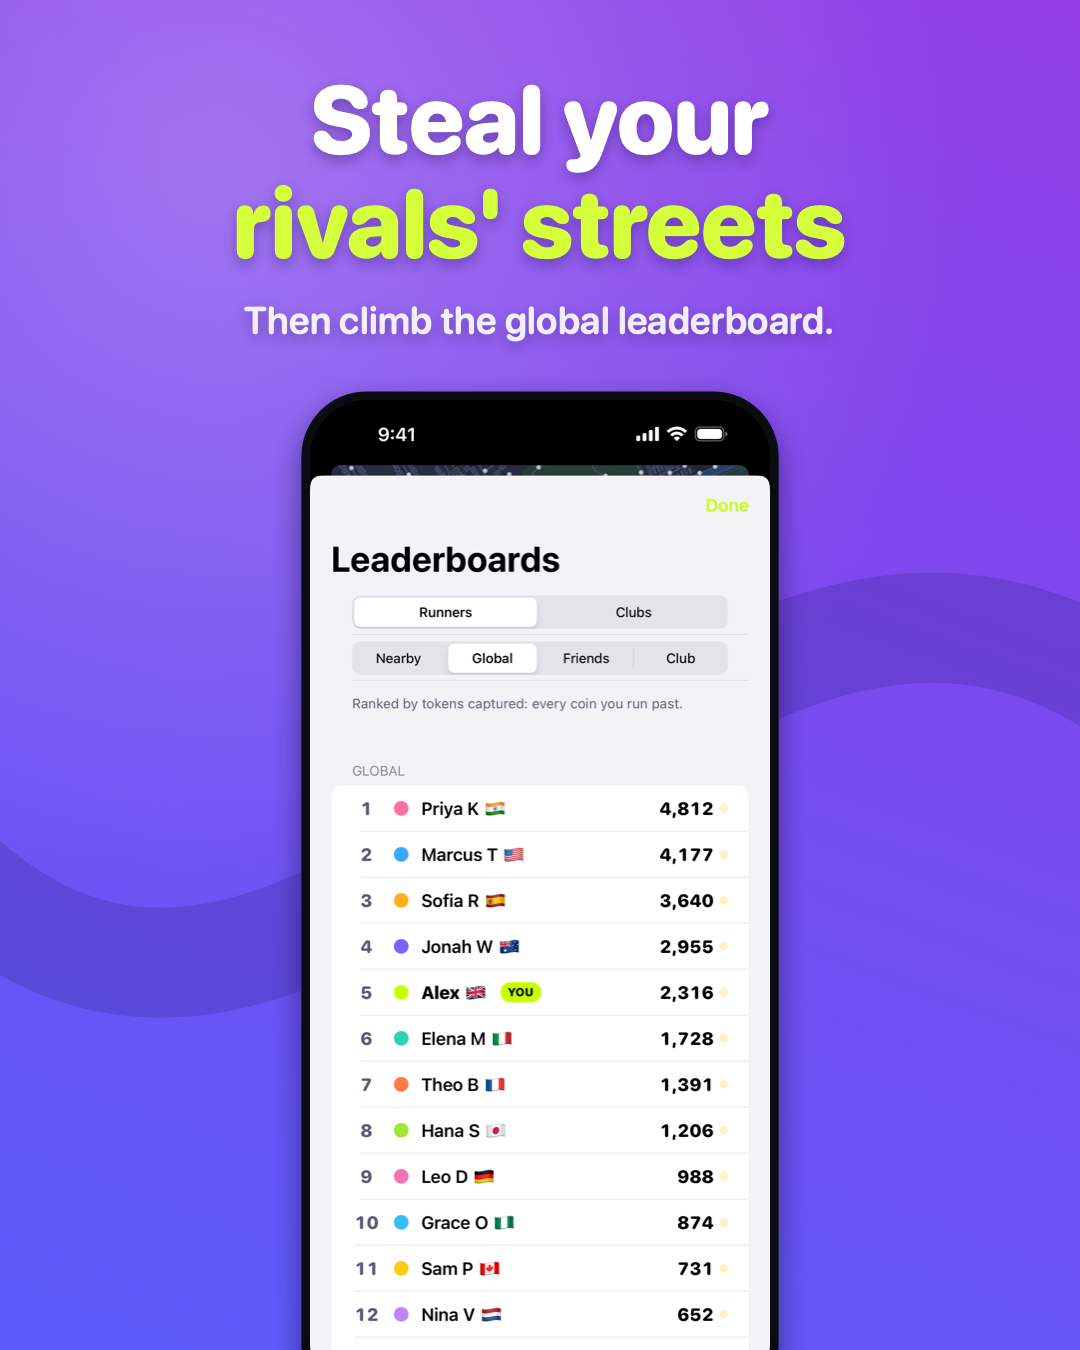
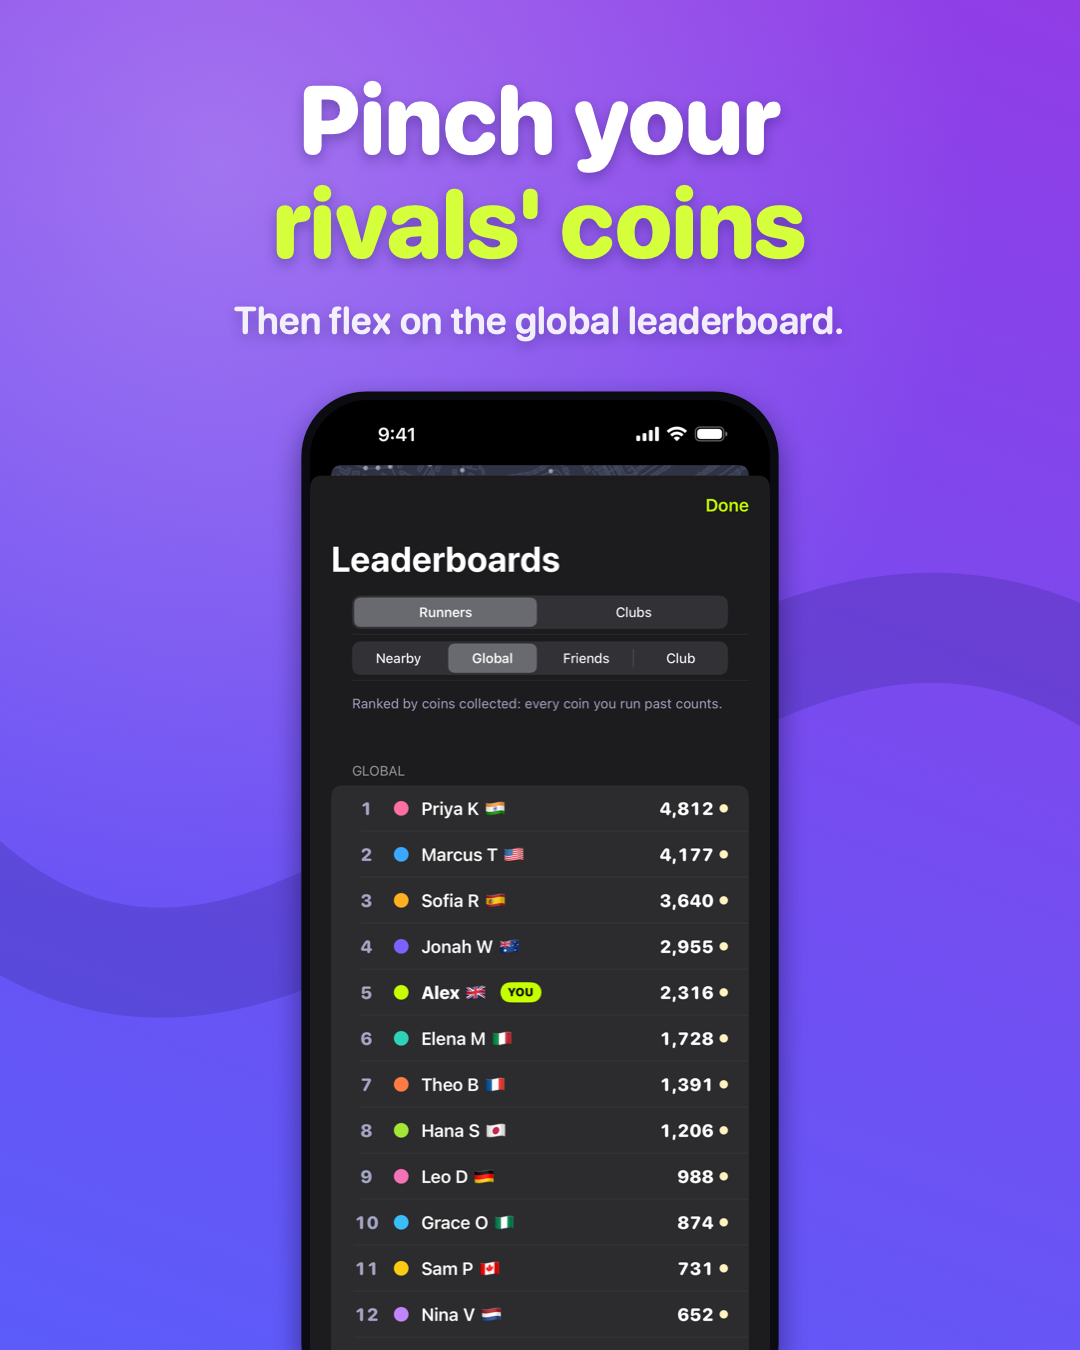
Marketing: posts and reels retaken with coins, livelier copy and captions
Claude-Session: https://claude.ai/code/session_01FMtq8DZr1tgLvzrY33xyjw

diff --git a/tools/make-posts.swift b/tools/make-posts.swift
@@ -119,20 +119,20 @@ try? FileManager.default.createDirectory(atPath: out, withIntermediateDirectorie
 // POST 1 — carousel (swipe through four slides).
 canvas("post1-carousel-1") {
     background(0)
-    headline("Your town is now", "a game board", y: 70)
+    headline("Your run just", "became a game", y: 70)
     text("Swipe →", 34, .bold, rgb(0xFFFFFF, 0.85), in: NSRect(x: 0, y: 300, width: W, height: 50))
     phone(shot("01-map"), center: NSPoint(x: W / 2, y: 900), height: 1000)
 }
 canvas("post1-carousel-2") {
     background(1)
-    headline("Every street is", "covered in coins", y: 70)
-    text("Run past them and they're yours.", 38, .semibold, rgb(0xFFFFFF, 0.9), in: NSRect(x: 0, y: 300, width: W, height: 60))
+    headline("The map is", "covered in coins", y: 70)
+    text("Run past them. Ka-ching. They're yours.", 38, .semibold, rgb(0xFFFFFF, 0.9), in: NSRect(x: 0, y: 300, width: W, height: 60))
     phone(shot("02-run"), center: NSPoint(x: W / 2, y: 900), height: 1000)
 }
 canvas("post1-carousel-3") {
     background(2)
-    headline("Steal your", "rivals' streets", y: 70)
-    text("Then climb the global leaderboard.", 38, .semibold, rgb(0xFFFFFF, 0.9), in: NSRect(x: 0, y: 300, width: W, height: 60))
+    headline("Pinch your", "rivals' coins", y: 70)
+    text("Then flex on the global leaderboard.", 38, .semibold, rgb(0xFFFFFF, 0.9), in: NSRect(x: 0, y: 300, width: W, height: 60))
     phone(shot("05-leaderboard"), center: NSPoint(x: W / 2, y: 900), height: 1000)
 }
 canvas("post1-carousel-4") {
@@ -140,7 +140,7 @@ canvas("post1-carousel-4") {
     appIcon(at: NSRect(x: W / 2 - 150, y: 230, width: 300, height: 300))
     text("Chomp", 120, .heavy, .white, in: NSRect(x: 0, y: 580, width: W, height: 150))
     text("The running game.", 52, .bold, lime, in: NSRect(x: 0, y: 730, width: W, height: 70))
-    text("Works anywhere, on any street.\nNo gym, no kit, just go.", 38, .semibold, rgb(0xFFFFFF, 0.88), in: NSRect(x: 100, y: 830, width: W - 200, height: 120))
+    text("Any road, any town, any pace.\nLace up and go get 'em.", 38, .semibold, rgb(0xFFFFFF, 0.88), in: NSRect(x: 100, y: 830, width: W - 200, height: 120))
     cta(y: 1040)
 }
 

diff --git a/tools/make-reels.swift b/tools/make-reels.swift
@@ -186,8 +186,8 @@ makeReel(name: "reel1-run-is-a-game", clips: [
 ], captions: [
     Caption(top: "POV: your run", bottom: "just became a game", from: 0.1, to: 3.5),
     Caption(top: "The map is", bottom: "covered in coins", from: 3.5, to: 7.5),
-    Caption(top: "Run past them.", bottom: "They're yours.", from: 7.5, to: 11.5),
-    Caption(top: "Every run", bottom: "counts", from: 11.5, to: 99),
+    Caption(top: "Run past them.", bottom: "Ka-ching.", from: 7.5, to: 11.5),
+    Caption(top: "Every run", bottom: "pays out", from: 11.5, to: 99),
 ])
 
 // REEL 2 — "Steal coins, climb the world"
@@ -197,6 +197,6 @@ makeReel(name: "reel2-steal-and-compete", clips: [
     Clip(start: at("leaderboard", 0.4), length: 4.4, speed: 1),
 ], captions: [
     Caption(top: "Your neighbourhood", bottom: "is up for grabs", from: 0.1, to: 3),
-    Caption(top: "Steal your", bottom: "rivals' coins", from: 3, to: 8.5),
-    Caption(top: "Climb the", bottom: "global leaderboard", from: 8.5, to: 99),
+    Caption(top: "Grab them before", bottom: "your rivals do", from: 3, to: 8.5),
+    Caption(top: "Then flex on", bottom: "the leaderboard", from: 8.5, to: 99),
 ])

diff --git a/marketing/CAPTIONS.md b/marketing/CAPTIONS.md
@@ -4,39 +4,40 @@ Put the App Store link in your bio (or a link sticker on Stories) before posting
 everything below says "link in bio".
 
 ## Post 1: carousel (post1-carousel-1 → 4)
-Your town is now a game board 🗺
+Your run just became a game 🎮🪙
 
-Every street is covered in coins. Run past them and they're yours. Your rivals can steal them back, so you'll be lacing up again tomorrow 😤
+The map around you is covered in coins. Run past them: ka-ching, they're yours. Your rivals can pinch them back, so tomorrow's run just got personal 😤
 
-🏃 Works on any street, anywhere
-🪙 Grab coins, take territory
-🌍 Climb the global leaderboard
+🏃 Any road, any town, any pace
+🪙 Grab coins on every run
+🦹 Pinch your rivals' coins
+🏆 Flex on the global leaderboard
 👟 Free on the App Store, link in bio
 
 #running #runningmotivation #runner #5k #parkrun #couchto5k #runninggame #fitnessapp #runhappy #ukrunchat #getoutside #fitnessmotivation
 
 ## Post 2: single image (post2-make-running-fun)
-Bored of the same old loop? Turn it into a game 🎮
+Same old loop? Not any more 😎
 
-Chomp puts coins on every street around you. Run them to make them yours, steal them from rivals and see how you stack up against the world.
+Chomp drops coins all over the map around you. Run past them to grab them, pinch your rivals' and see how you stack up against the world. Suddenly "just one more road" is a thing you say.
 
 Free on the App Store, link in bio 👆
 
 #running #runningapp #runnersofinstagram #runningmotivation #fitnessgoals #parkrun #ukrunning #runningcommunity #gamification
 
 ## Reel 1: "POV: your run just became a game" (reel1-run-is-a-game.mp4)
-POV: you finally have a reason to run that extra street 😅🪙
+POV: you've found a reason to run that extra road 😅🪙
 
-Every street near you is covered in coins. Run past them, they're yours. Free on the App Store, link in bio.
+The map is covered in coins. Run past them. Ka-ching. Every run pays out. Free on the App Store, link in bio.
 
 #running #runningtok #runningmotivation #5k #couchto5k #runnergirl #runnerboy #fitnesstok #runninggame #parkrun
 
-## Reel 2: "Steal your rivals' coins" (reel2-steal-and-compete.mp4)
+## Reel 2: "Grab them before your rivals do" (reel2-steal-and-compete.mp4)
 Your neighbourhood is up for grabs 👀
 
-Steal your rivals' streets, defend your own and climb the global leaderboard. Who's taking your town?
+Every coin you pass is yours, until someone faster pinches it. Grab them first, take theirs, then flex on the global leaderboard 🏆
 
-Free on the App Store, link in bio 🏃
+Who's running your area? Free on the App Store, link in bio 🏃
 
 #running #runningcommunity #runnersofinstagram #competition #leaderboard #runningmotivation #fitness #runclub #parkrun
 
@@ -44,4 +45,4 @@ Free on the App Store, link in bio 🏃
 - The reels have no sound. Add a trending track in Instagram when you post: reels with audio get much more reach.
 - Post the reels first. They reach people who don't follow you yet; the carousel works better once people land on your profile.
 - Pin the carousel to your profile grid so new visitors see what the app is in one swipe.
-- Reply to comments with "Which town are you in?" to spark rivalry (and engagement).
+- Reply to comments with "Where do you run?" to get people comparing areas (and boost engagement).
